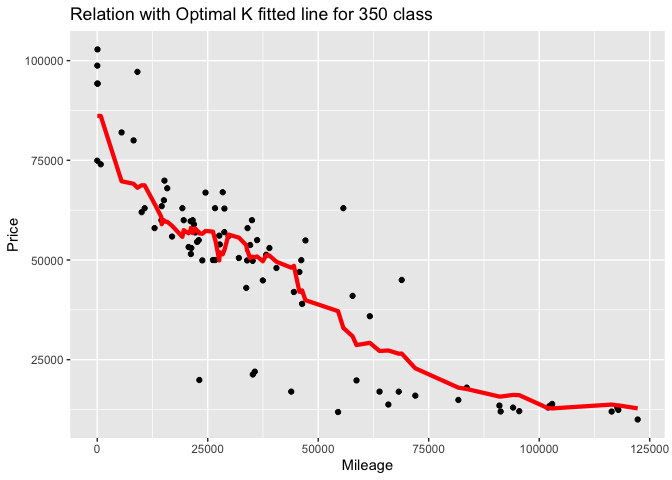
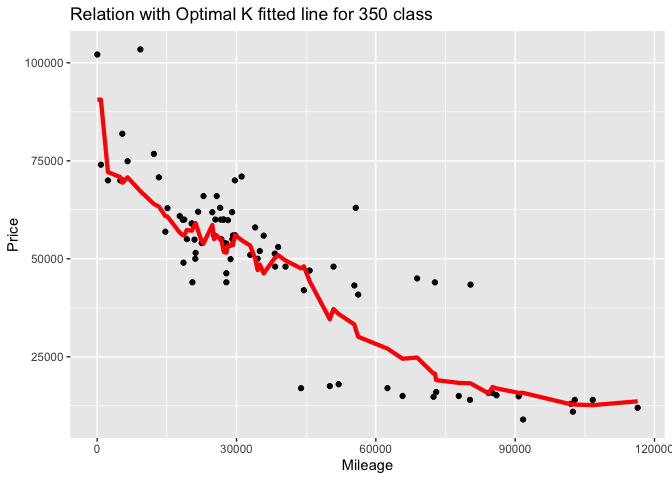
fixed Rmd file

diff --git a/homework-1/Homework-1-PNBR.md b/homework-1/Homework-1-PNBR.md
@@ -2,48 +2,20 @@
 
 ## Question 1 - What airline is better to travel?
 
-    ggplot(average_week_departure) + 
-      geom_col(aes(x=DayOfWeek, y=average)) +
-      labs(x='Day of the Week (1= Monday, 7= Sunday)',
-           y= 'Average Departure Delay in Minutes',
-           title= 'Departure delays during the week in AUS')
-
 ![](Homework-1-PNBR_files/figure-markdown_strict/unnamed-chunk-4-1.png)
 <br> <br> If you are planning a trip starting on the Austin
 International Airport, you should choose to depart on a Wednesday to
 minimize departure delays. <br> <br>
-
-    ggplot(try) + 
-      geom_col(aes(x=DayOfWeek, y=average)) + 
-      facet_wrap(~UniqueCarrier) +
-      labs(x='Day of the Week (1= Monday, 7= Sunday)',
-           y= 'Average Departure Delay in Minutes',
-           title= 'Departure delays per airline from AUS')
-
 ![](Homework-1-PNBR_files/figure-markdown_strict/unnamed-chunk-5-1.png)
 <br> <br> However, when you are choosing between different airlines and
 dates, choosing US Airways and departure on a Monday gives the smallest
 departure delay.  
 <br> <br>
 
-    ggplot(average_weak_arrival) + 
-      geom_col(aes(x=DayOfWeek, y=average)) +
-      labs(x='Day of the Week (1= Monday, 7= Sunday)',
-           y= 'Average Arrival Delay in Minutes',
-           title= 'Arrival delays during the week in AUS')
-
 ![](Homework-1-PNBR_files/figure-markdown_strict/unnamed-chunk-7-1.png)
 <br> <br> When planing the way back to the Austin International Airport,
 the best weekday to arrive is Saturday.  
 <br> <br>
-
-    ggplot(try2) + 
-      geom_col(aes(x=DayOfWeek, y=average)) + 
-      facet_wrap(~UniqueCarrier) +
-      labs(x='Day of the Week (1= Monday, 7= Sunday)',
-           y= 'Average Arrival Delay in Minutes',
-           title= 'Arrival delays per airline to AUS')
-
 ![](Homework-1-PNBR_files/figure-markdown_strict/unnamed-chunk-8-1.png)
 <br> <br> Furthermore, the best arline for a trip returning to Austin is
 US Airways on a Saturday. If I were to recommend a trip, from Austin and
@@ -54,12 +26,6 @@ on a Saturday, both ways through US Airways to minimize delays.
 ## Question 2 - Billboard data
 
 ### A - Top 10 most popular songs since 1958
-
-    billboard %>%
-      group_by(performer, song) %>%
-      summarize(total_count = n()) %>%
-      arrange(desc(total_count)) %>%
-      head(10)
 
     ## `summarise()` has grouped output by 'performer'. You can override using the `.groups` argument.
 
@@ -85,22 +51,7 @@ songs.
 
 ### B - How many unique songs in top 100 per year?
 
-    ggplot(maybe) +
-      geom_line(aes(x=year, y=unique)) +
-      labs(x="Year",
-           y="Number of Unique Songs",
-           title="Number of Unique Songs in the Top 100 per Year")
-
-![](Homework-1-PNBR_files/figure-markdown_strict/unnamed-chunk-13-1.png)
-
-    ggplot(maybe) +
-      geom_line(aes(x=year, y=unique)) +
-      ylim(0,1000) +
-      labs(x="Year",
-           y="Number of Unique Songs",
-           title="Number of Unique Songs in the Top 100 per Year")
-
-![](Homework-1-PNBR_files/figure-markdown_strict/unnamed-chunk-13-2.png)
+![](Homework-1-PNBR_files/figure-markdown_strict/unnamed-chunk-13-1.png)![](Homework-1-PNBR_files/figure-markdown_strict/unnamed-chunk-13-2.png)
 <br> The picture shows the change in unique songs that ever made to the
 top 100 billboard songs of a given year. The number of unique songs in
 the top 100 decreased over time from 1970 to early 2000s, while it grew
@@ -111,9 +62,6 @@ reach the top 100, so old songs would stay in the top for longer.
 <br>
 
 ### C - Artists with most ten-week hits.
-
-    ten_week_hit %>%
-      summarise(count(performer))
 
     ## # A tibble: 19 x 2
     ##    performer             `count(performer)`
@@ -138,13 +86,6 @@ reach the top 100, so old songs would stay in the top for longer.
     ## 18 The Rolling Stones                    33
     ## 19 Tim McGraw                            39
 
-    ggplot(ten_week_hit) + 
-      geom_col(aes(x=performer, y=count(song_id))) +
-      coord_flip() +
-      labs(x="Performer",
-           y="Number of Songs",
-           title="Number of Songs for at Least 10 Weeks on Top 100 per Performer")
-
 ![](Homework-1-PNBR_files/figure-markdown_strict/unnamed-chunk-16-1.png)
 <br> Those are the 19 artists that had at least 10 songs present in the
 top 100 for at least 10 weeks, making them some of the most successful
@@ -157,21 +98,15 @@ most songs featuring for at least 10 weeks.
 
 ## A - 95th percentile for female competitors in Athletic events
 
-    percentheight %>%
-     summarise(q95_height = quantile(trueheight, 0.95))
-
     ## # A tibble: 1 x 1
     ##   q95_height
     ##        <dbl>
     ## 1        183
 
-## B - Which event has the greatest variability in height?
+<br> The 95th percentile of height in female competitors in Athletic
+events is 183cm. <br>
 
-    femheight %>%
-      group_by(event) %>%
-      summarise(newheight = mean(height),
-                sd_height = sd(height)) %>%
-      arrange(desc(sd_height))
+## B - Which event has the greatest variability in height?
 
     ## # A tibble: 132 x 3
     ##    event                                 newheight sd_height
@@ -195,12 +130,6 @@ Fours event from the Rowing sport.
 
 ## C - Change in average age of Olympic Swimmers across all olympic history.
 
-    swim_age %>%
-      filter(sex=='F') %>%
-      group_by(year) %>%
-      summarise(year_fage = mean(age)) %>%
-      arrange(desc(year_fage))
-
     ## # A tibble: 18 x 2
     ##     year year_fage
     ##    <int>     <dbl>
@@ -223,12 +152,6 @@ Fours event from the Rowing sport.
     ## 17  1952      17  
     ## 18  1972      17
 
-    swim_age %>%
-      filter(sex=='M') %>%
-      group_by(year) %>%
-      summarise(year_mage = mean(age)) %>%
-      arrange(desc(year_mage))
-
     ## # A tibble: 28 x 2
     ##     year year_mage
     ##    <int>     <dbl>
@@ -244,28 +167,9 @@ Fours event from the Rowing sport.
     ## 10  2004      22.8
     ## # … with 18 more rows
 
-    swim_age = swim_age %>%
-      group_by(year, sex) %>%
-      summarise(year_alage = mean(age))
-
     ## `summarise()` has grouped output by 'year'. You can override using the `.groups` argument.
 
-    ggplot(swim_age) +
-      geom_line(aes(x= year, y=year_alage, color=sex)) +
-      labs(x="Year",
-           y="Average Age",
-           title="Average Age of Swimmers across Olympic history")
-
-![](Homework-1-PNBR_files/figure-markdown_strict/unnamed-chunk-24-1.png)
-
-    ggplot(swim_age) +
-      geom_line(aes(x= year, y=year_alage, color=sex)) +
-      ylim(15, 35) +
-      labs(x="Year",
-           y="Average Age",
-           title="Average Age of Swimmers across Olympic history")
-
-![](Homework-1-PNBR_files/figure-markdown_strict/unnamed-chunk-24-2.png)
+![](Homework-1-PNBR_files/figure-markdown_strict/unnamed-chunk-24-1.png)![](Homework-1-PNBR_files/figure-markdown_strict/unnamed-chunk-24-2.png)
 <br> The age of male swimmers grew until the 1924 Olympics, from them it
 decreased until the 1932 Olympics. Since them there is a upwards trend
 with some decreases. The female average age decrease until the 1952
@@ -277,97 +181,65 @@ increasing in the past years. <br>
 
 ## 350 Trim Class
 
-    cv_grid %>%
-      arrange(err)
-
-    ##             k      err  std_err
-    ## result.6   15 10106.71 564.2191
-    ## result.11  40 10219.81 607.0897
-    ## result.7   20 10220.17 637.8449
-    ## result.5   10 10231.83 616.5302
-    ## result.10  35 10254.36 601.4135
-    ## result.4    8 10262.65 601.6863
-    ## result.12  45 10268.33 603.2758
-    ## result.13  50 10293.10 585.5776
-    ## result.8   25 10309.46 618.8010
-    ## result.9   30 10314.48 589.8379
-    ## result.3    6 10321.13 586.3437
-    ## result.14  60 10422.05 615.9807
-    ## result.15  70 10494.75 627.5686
-    ## result.16  80 10743.46 638.0219
-    ## result.2    4 10978.87 710.5487
-    ## result.17  90 10987.30 640.2323
-    ## result.18 100 11333.68 675.2059
-    ## result.1    2 11924.17 792.3925
-    ## result.19 125 12384.27 673.8401
-    ## result.20 150 13529.12 684.0776
-    ## result.21 175 14670.94 693.5872
-    ## result.22 200 15713.86 710.5736
-    ## result.23 250 17731.71 719.0308
-    ## result.24 300 20536.50 678.9010
-
-    ggplot(cv_grid) + 
-      geom_point(aes(x=k, y=err)) + 
-      geom_errorbar(aes(x=k, ymin = err-std_err, ymax = err+std_err)) + 
-      scale_x_log10() +
-      labs(x="Values of K",
-           y="Average RMSE with Standard errors",
-           title="RMSE across different values of K for 350 trim class")
+    ##             k       err  std_err
+    ## result.4    8  9996.616 772.4039
+    ## result.5   10 10044.418 762.5748
+    ## result.6   15 10059.911 641.1989
+    ## result.7   20 10127.164 589.8894
+    ## result.3    6 10172.105 676.2115
+    ## result.8   25 10199.365 548.4074
+    ## result.12  45 10211.572 563.6546
+    ## result.13  50 10227.402 554.2019
+    ## result.10  35 10235.027 547.8350
+    ## result.9   30 10240.773 534.3833
+    ## result.11  40 10253.727 576.6554
+    ## result.14  60 10388.165 510.1677
+    ## result.15  70 10464.974 483.1962
+    ## result.2    4 10543.179 698.9901
+    ## result.16  80 10719.307 444.9334
+    ## result.17  90 11007.765 415.2421
+    ## result.18 100 11355.966 433.5912
+    ## result.19 125 12445.899 460.7901
+    ## result.1    2 12467.998 549.7316
+    ## result.20 150 13596.986 511.0857
+    ## result.21 175 14718.103 577.2078
+    ## result.22 200 15764.149 627.3774
+    ## result.23 250 17743.243 650.7534
+    ## result.24 300 20549.303 674.1491
 
 ![](Homework-1-PNBR_files/figure-markdown_strict/unnamed-chunk-29-1.png)
-
-    p_test + geom_line(aes(x = mileage, y = price_pred15), color='red', size=1.5) +
-      labs(x="Mileage",
-           y="Price",
-           title="Relation with Optimal K fitted line for 350 class")
 
 ![](Homework-1-PNBR_files/figure-markdown_strict/unnamed-chunk-31-1.png)
 
 ## 63 AMG Trim Class
 
-    cv_grid %>%
-      arrange(err)
-
-    ##             k      err  std_err
-    ## result.14  60 14424.54 470.3511
-    ## result.15  70 14424.82 488.1210
-    ## result.13  50 14432.92 466.5323
-    ## result.12  45 14438.13 461.0675
-    ## result.11  40 14473.19 463.5565
-    ## result.10  35 14491.30 473.5020
-    ## result.9   30 14497.63 486.8482
-    ## result.8   25 14504.99 475.2477
-    ## result.16  80 14519.78 507.8035
-    ## result.17  90 14561.51 525.9274
-    ## result.7   20 14611.66 469.0925
-    ## result.18 100 14667.73 557.9964
-    ## result.6   15 14724.57 500.6968
-    ## result.5   10 14811.22 509.0334
-    ## result.4    8 14857.03 553.9067
-    ## result.19 125 14949.38 605.5055
-    ## result.3    6 15091.22 542.9086
-    ## result.20 150 15389.90 650.0432
-    ## result.2    4 15733.73 544.1308
-    ## result.21 175 15890.66 667.8109
-    ## result.22 200 16387.15 656.8992
-    ## result.1    2 17075.76 519.4758
-    ## result.23 250 17434.76 639.2816
-    ## result.24 300 18526.60 624.5527
-
-    ggplot(cv_grid) + 
-      geom_point(aes(x=k, y=err)) + 
-      geom_errorbar(aes(x=k, ymin = err-std_err, ymax = err+std_err)) + 
-      scale_x_log10() +
-      labs(x="Values of K",
-           y="Average RMSE with Standard errors",
-           title="RMSE across different values of K for 63 AMG trim class")
+    ##             k      err   std_err
+    ## result.13  50 14421.36  481.5516
+    ## result.12  45 14453.85  471.3655
+    ## result.14  60 14466.25  495.9309
+    ## result.15  70 14469.22  488.3377
+    ## result.10  35 14483.65  478.7580
+    ## result.11  40 14497.37  451.1036
+    ## result.16  80 14545.81  527.9220
+    ## result.9   30 14560.95  495.7041
+    ## result.8   25 14590.49  518.6058
+    ## result.17  90 14631.58  546.8661
+    ## result.7   20 14671.17  521.7883
+    ## result.18 100 14725.03  565.9257
+    ## result.6   15 14767.37  496.0621
+    ## result.19 125 15040.72  640.1895
+    ## result.5   10 15104.48  490.9189
+    ## result.4    8 15133.15  550.1249
+    ## result.3    6 15325.80  484.9081
+    ## result.20 150 15465.04  739.3964
+    ## result.2    4 15921.29  437.7681
+    ## result.21 175 15946.23  828.1545
+    ## result.22 200 16418.12  900.5980
+    ## result.1    2 16978.14  572.7841
+    ## result.23 250 17430.68 1019.6617
+    ## result.24 300 18475.76 1159.9871
 
 ![](Homework-1-PNBR_files/figure-markdown_strict/unnamed-chunk-33-1.png)
-
-    p_test + geom_line(aes(x = mileage, y = price_pred60), color='red', size=1.5)+
-      labs(x="Mileage",
-           y="Price",
-           title="Relation with Optimal K fitted line for 63 AMG class")
 
 ![](Homework-1-PNBR_files/figure-markdown_strict/unnamed-chunk-35-1.png)
 <br> The 65 AMG trim yields the largest optimal “k”, it could be due to
